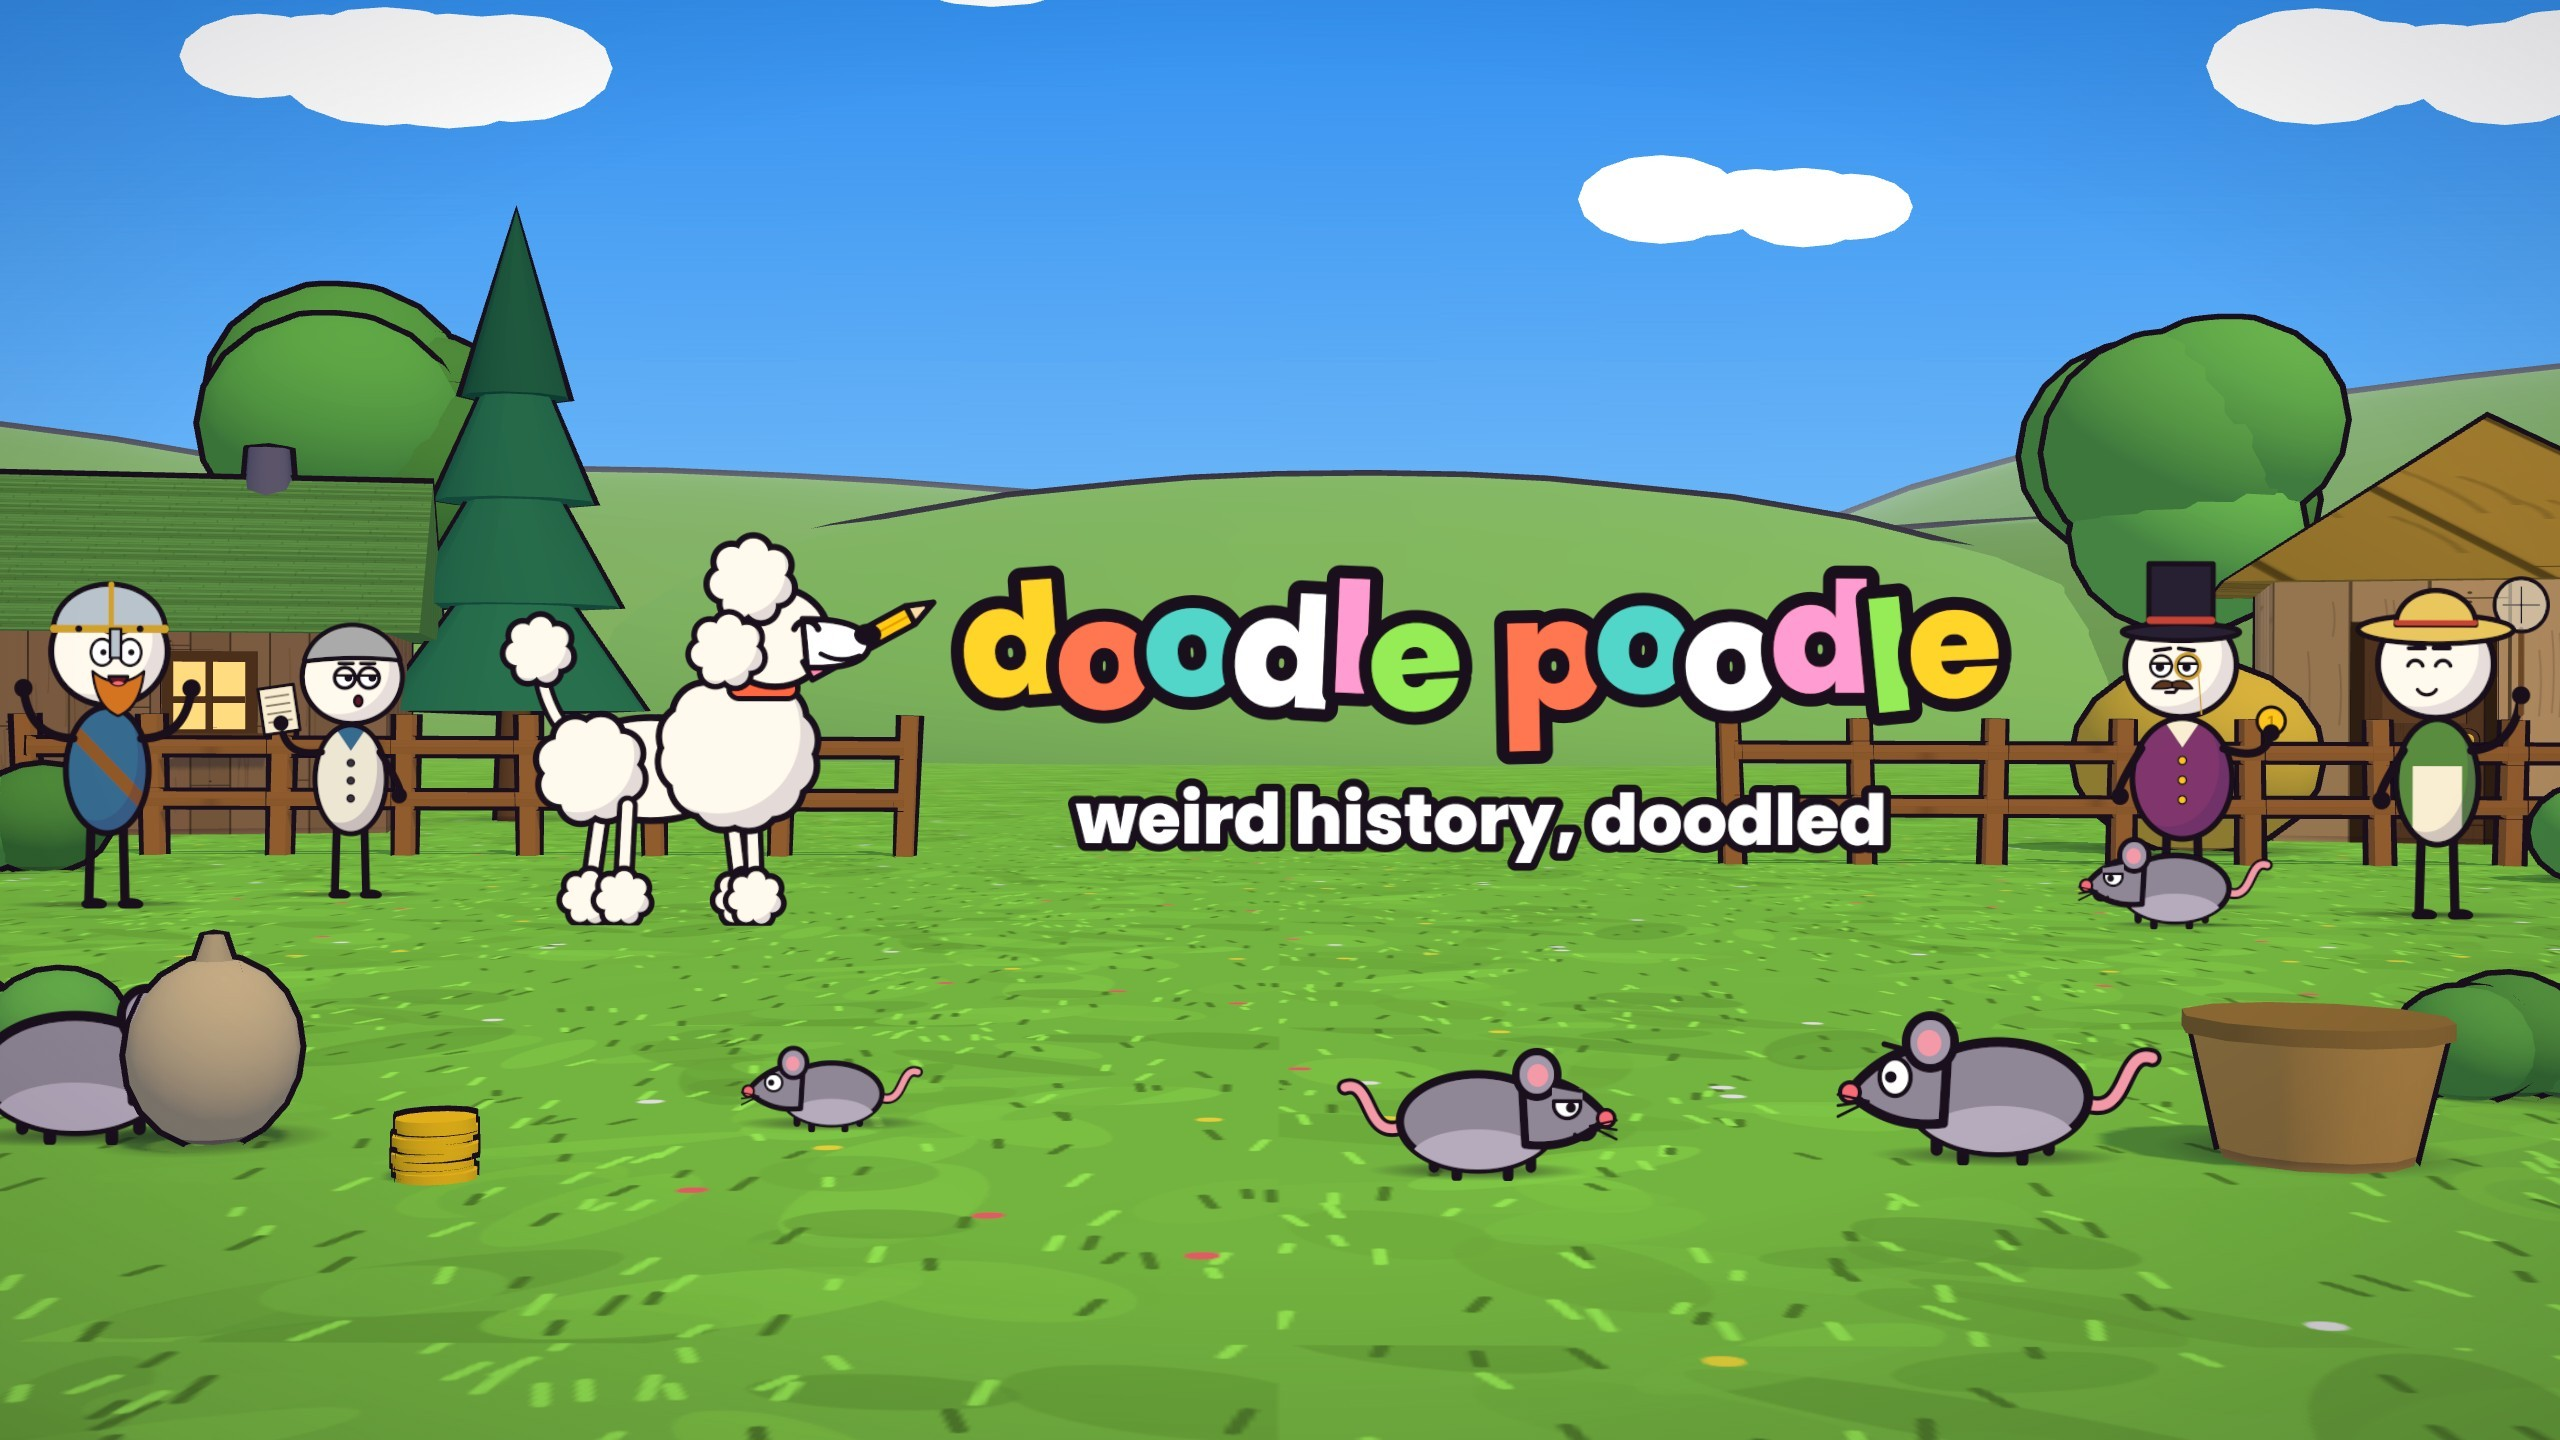
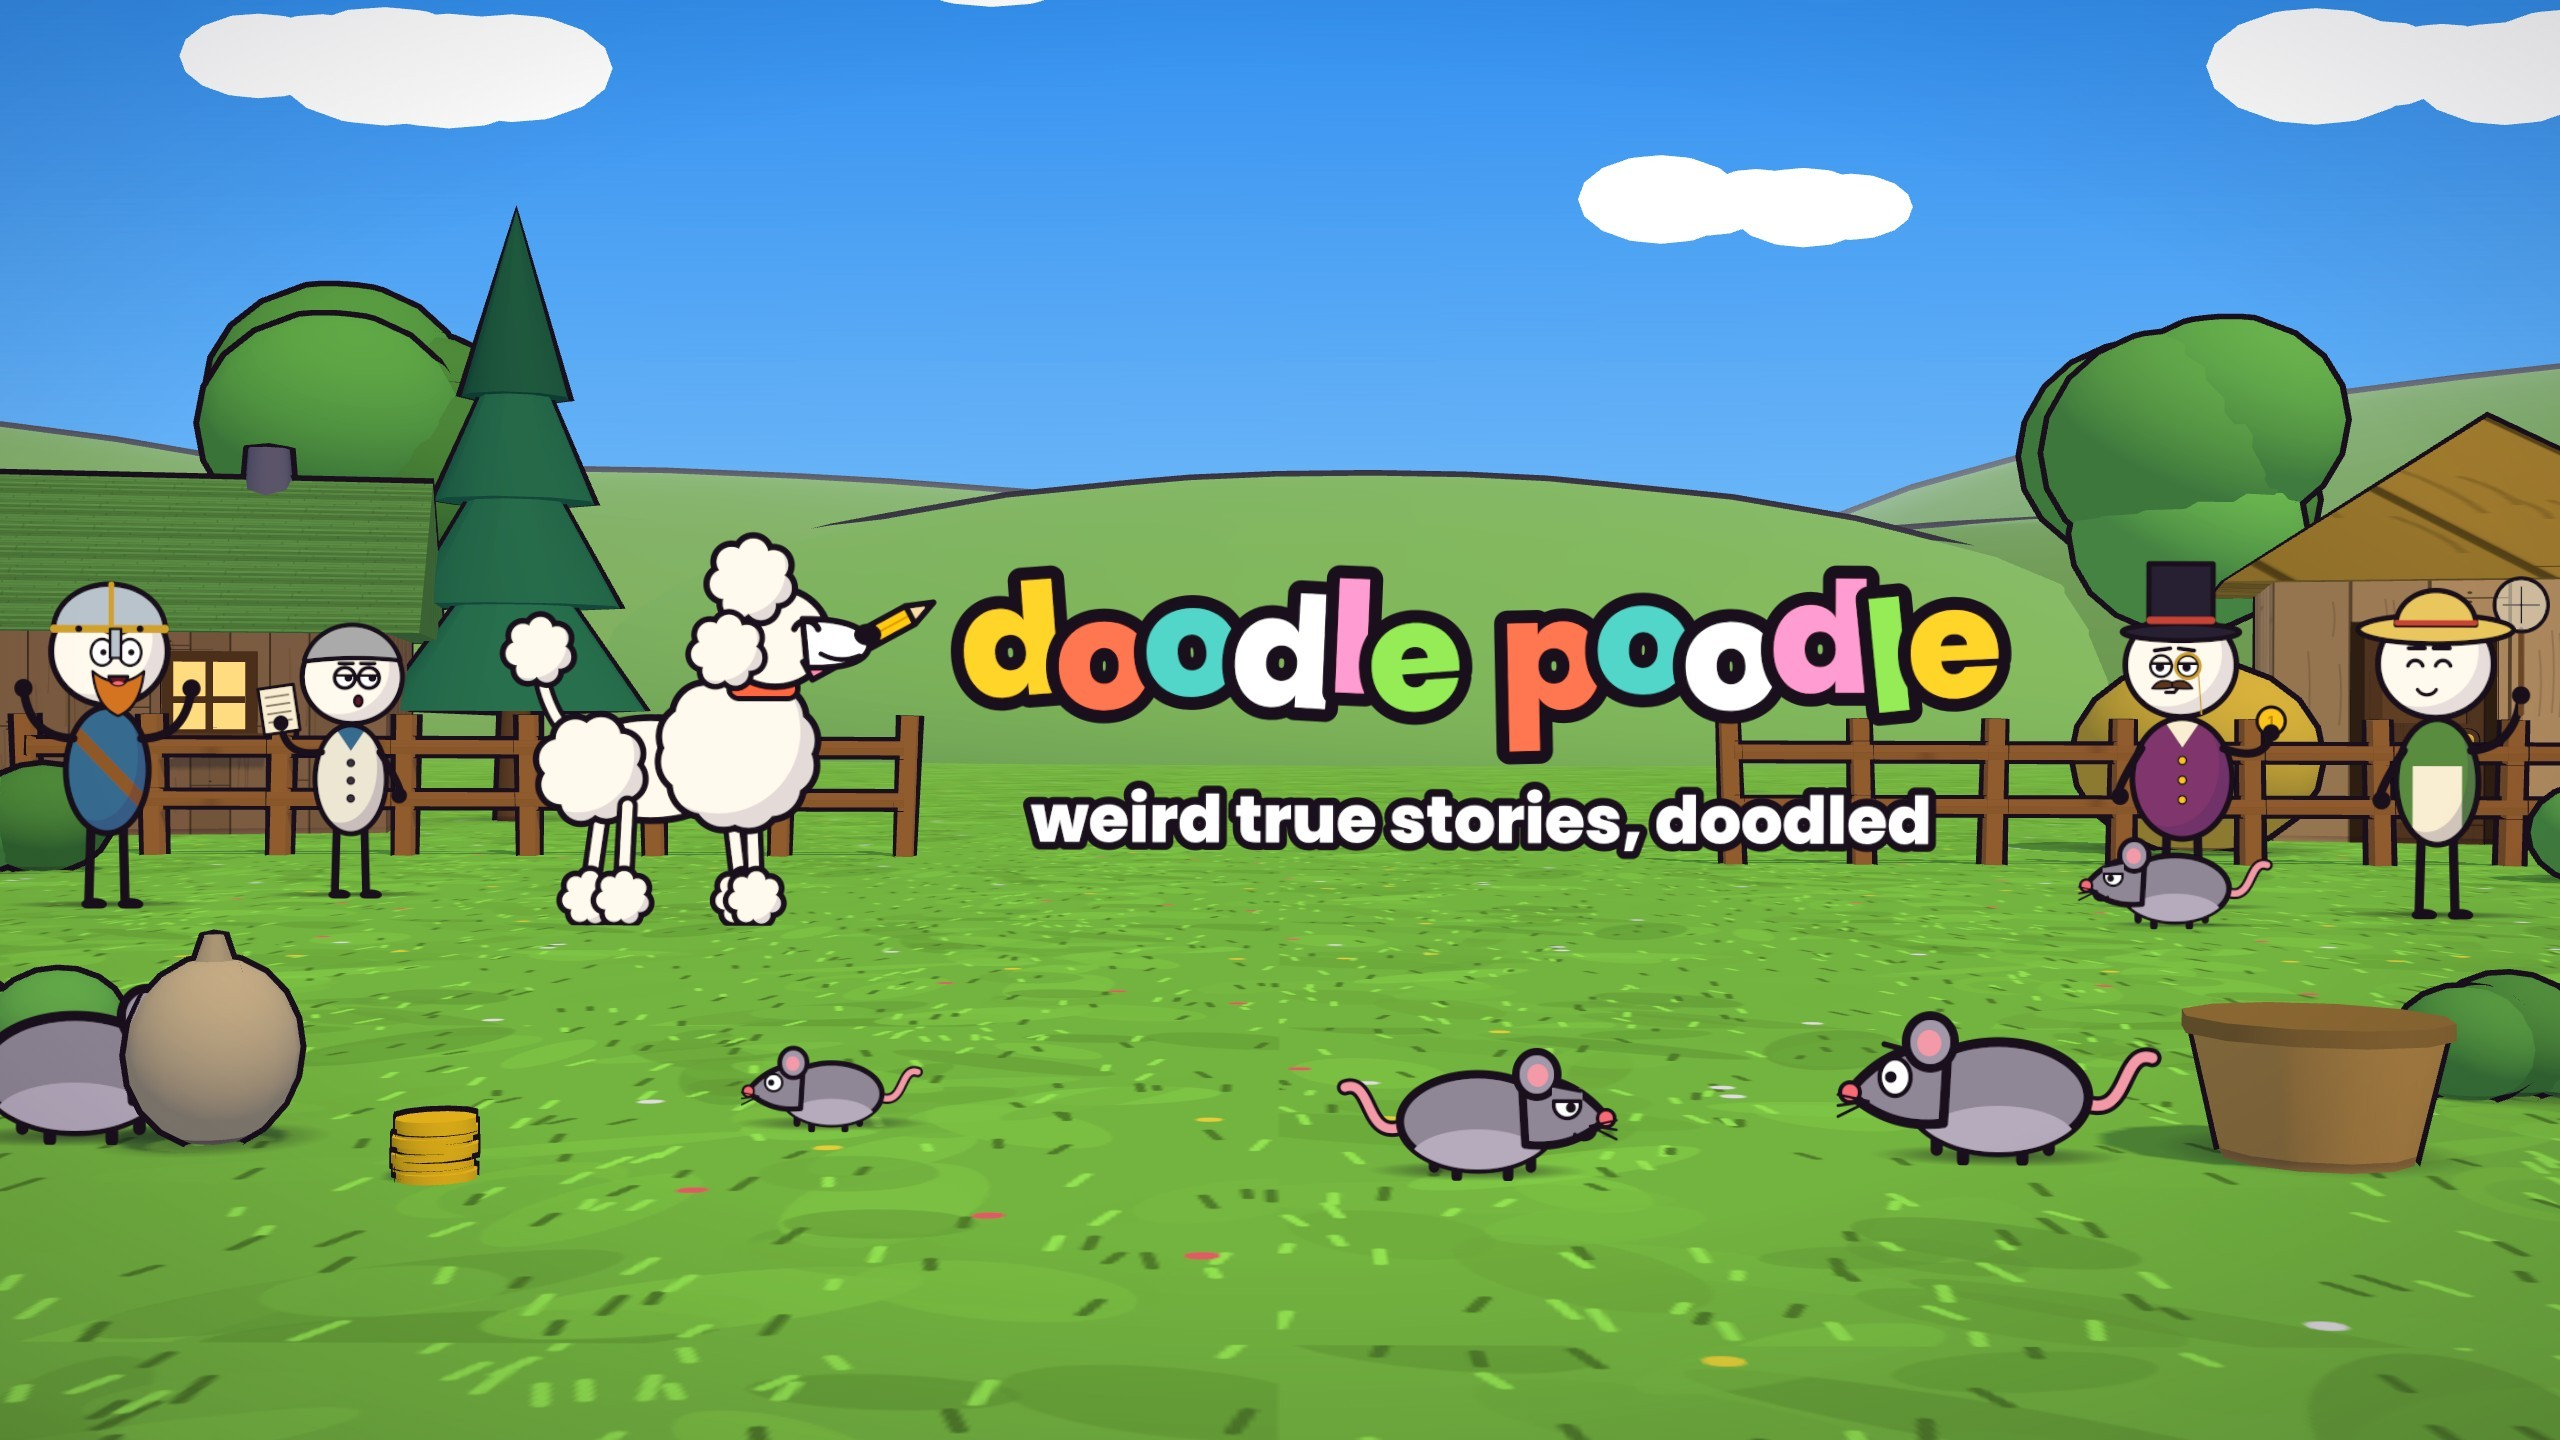
Channel art: tagline and bio cover any true story (#6)
Claude-Session: https://claude.ai/code/session_014DbZsKE7EJLzuP71rLZRNp

Changed region(s): [[0.375, 0.5312, 0.7812, 0.625]]

diff --git a/studio/src/videos/channel/film.ts b/studio/src/videos/channel/film.ts
@@ -97,7 +97,7 @@ const logo = (tag: boolean) => ctex(`logo-${NAME}-${tag}`, 2400, tag ? 760 : 560
     g.restore(); x += ws[i];
   });
   if (tag) {
-    g.textAlign = "center"; g.font = `800 150px Poppins, sans-serif`; g.strokeStyle = INK; g.lineWidth = 34; g.strokeText("weird history, doodled", 1200, 650); g.fillStyle = "#ffffff"; g.fillText("weird history, doodled", 1200, 650);
+    g.textAlign = "center"; g.font = `800 140px Poppins, sans-serif`; g.strokeStyle = INK; g.lineWidth = 34; g.strokeText("weird true stories, doodled", 1200, 650); g.fillStyle = "#ffffff"; g.fillText("weird true stories, doodled", 1200, 650);
   }
 });
 

diff --git a/docs/channel/README.md b/docs/channel/README.md
@@ -15,13 +15,14 @@ Re-render from `studio/`:
 
 ## Bio (channel description)
 
-> Weird history, doodled. 🐩✏
+> Weird true stories, doodled. 🐩✏
 >
-> The true stories your teacher skipped: wars lost to birds, laws that backfired, explorers who found a continent
-> and went home for dinner. Each one drawn and told in under a minute.
+> The stories nobody told you: wars lost to birds, laws that backfired, inventions that went wrong, animals that
+> outsmarted everyone. History, science, nature, whatever is strange and real. Each one drawn and told in under a
+> minute.
 >
 > Every fact is checked against real sources. The poodle only does the drawing.
 >
-> New shorts every week. Subscribe so you don't miss the next bad idea in history.
+> New shorts every week. Subscribe so you don't miss the next one.
 
-Short version (handle line, Shorts, TikTok, Instagram): `Weird history, doodled. True stories in under a minute. 🐩✏`
+Short version (handle line, Shorts, TikTok, Instagram): `Weird true stories, doodled. Each one under a minute. 🐩✏`
